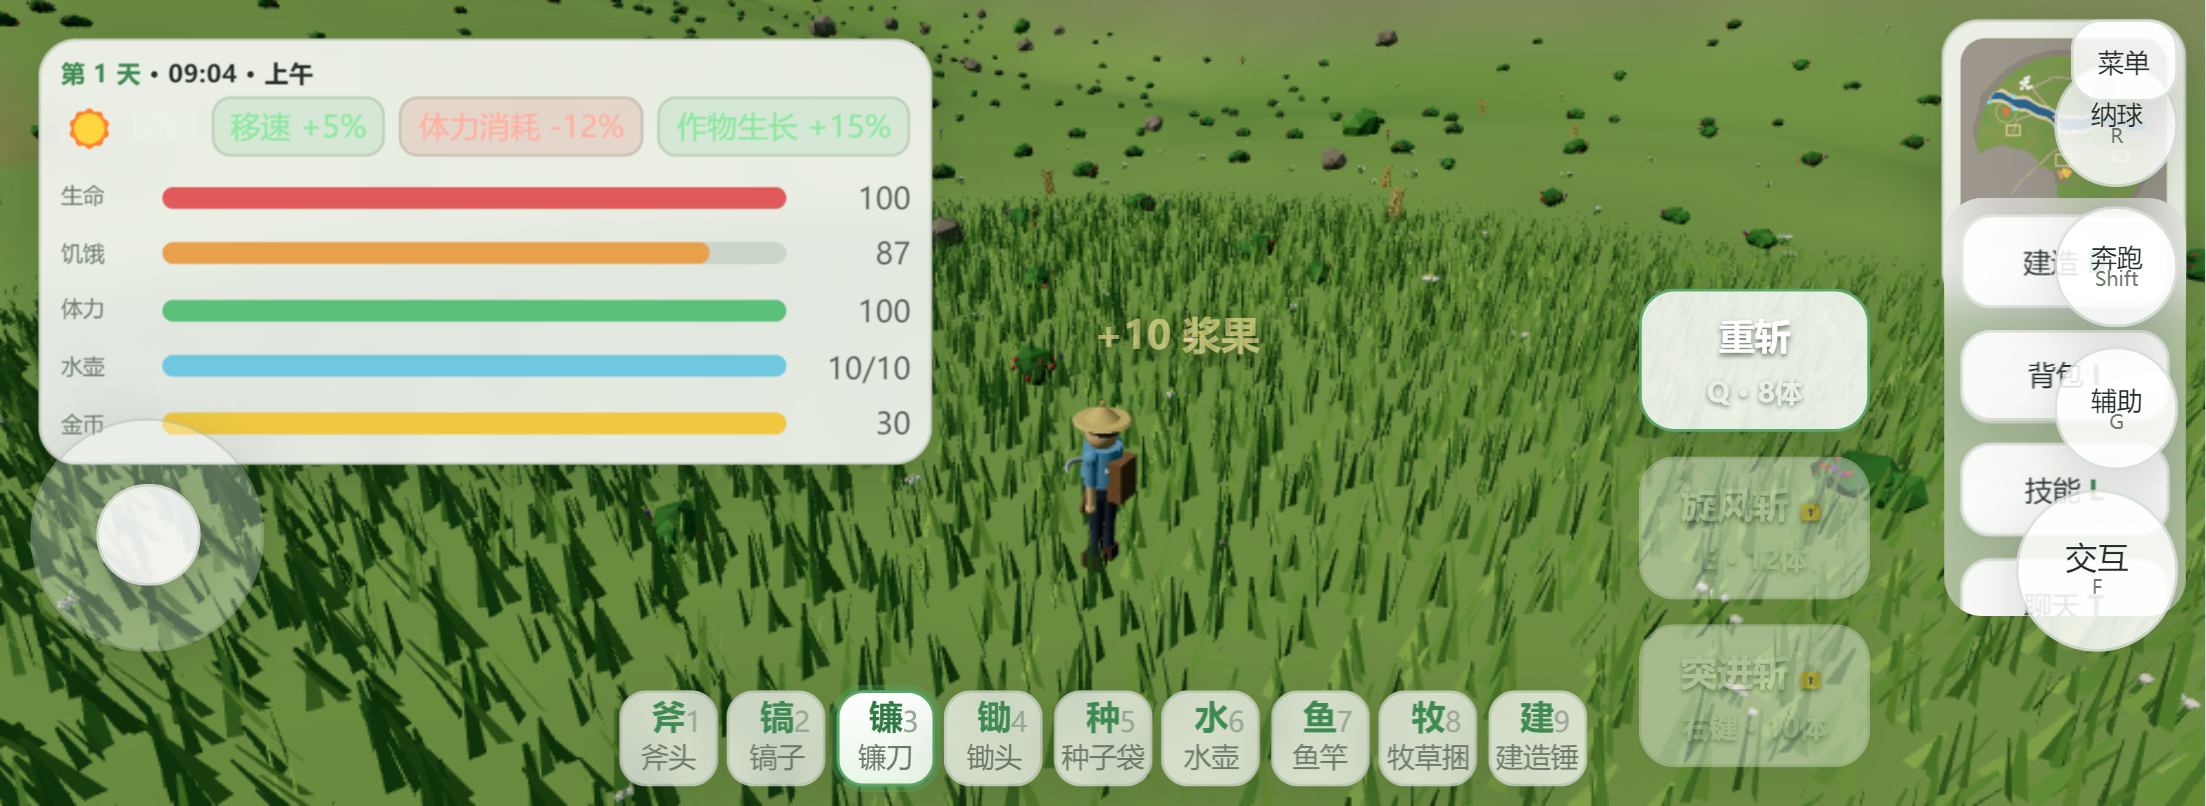
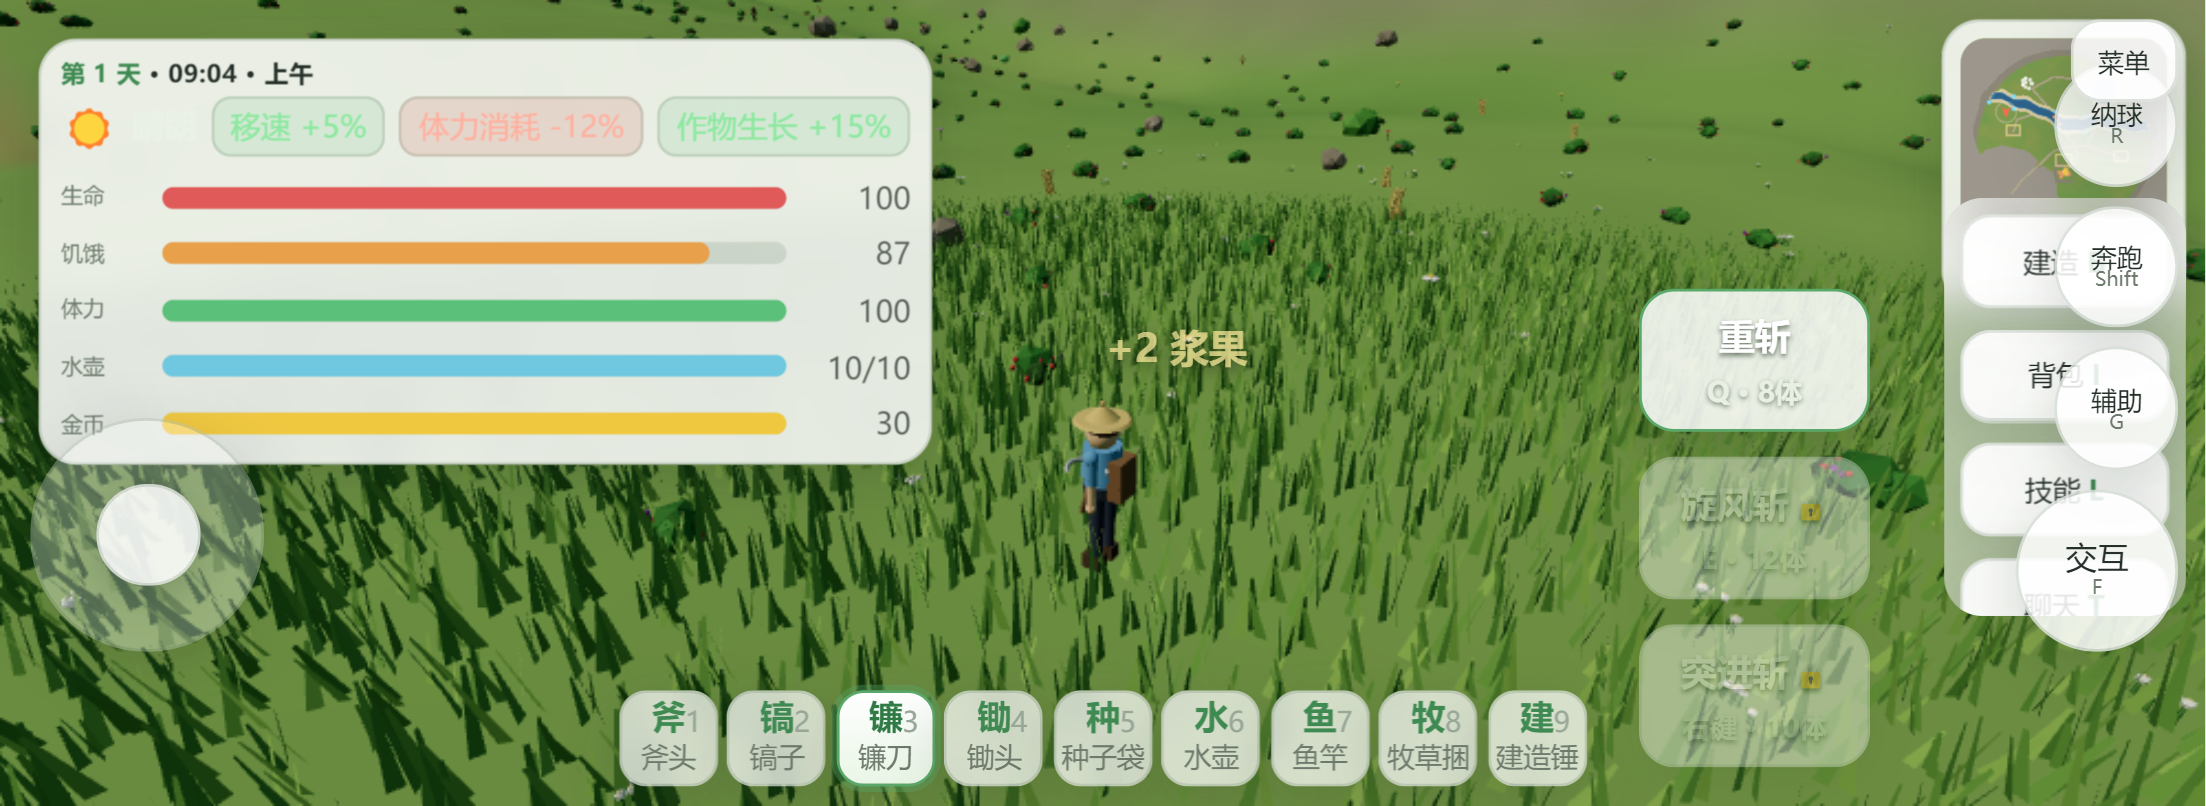
???? Open Farm:?? + ?? APK(????)

diff --git a/farm3d/_e2e.js b/farm3d/_e2e.js
@@ -1860,6 +1860,23 @@ fs.writeFileSync(TMP_PIC, Buffer.from(
   ok('刷新页面后读档恢复（含坐骑）', loaded.builds === saved.builds.length && loaded.tilled >= 1 && loaded.mounts >= 1);
   console.log('   读档状态 =', JSON.stringify(loaded));
 
+  /* 7. 鼠标指针：进入世界自动隐藏，按 Esc 取回（UI 悬停仍显示箭头） */
+  const cur1 = await page.evaluate(() => ({
+    cv: getComputedStyle(document.getElementById('cv')).cursor,
+    cls: document.documentElement.classList.contains('cur-none'),
+  }));
+  await page.keyboard.press('Escape');
+  await page.waitForTimeout(250);
+  const cur2 = await page.evaluate(() => ({
+    cv: getComputedStyle(document.getElementById('cv')).cursor,
+    cls: document.documentElement.classList.contains('cur-none'),
+    panel: (document.querySelector('#panel .phead h3') || {}).textContent || '',
+  }));
+  console.log('   指针 =', JSON.stringify({ before: cur1, afterEsc: cur2 }));
+  ok('进入游戏画布自动隐藏鼠标指针 · 按 Esc 显回',
+    cur1.cv === 'none' && cur1.cls && cur2.cv !== 'none' && !cur2.cls);
+  await page.evaluate(() => window.FARM.UI.closePanel());
+
   console.log(errs.length ? '\n运行时错误:\n' + errs.slice(0, 5).join('\n') : '\n无 JS 错误');
   await browser.close();
   process.exit(fails ? 1 : 0);

diff --git a/farm3d/_e2e_mobile.js b/farm3d/_e2e_mobile.js
@@ -157,14 +157,17 @@ const ASSETS = path.join(__dirname, '..', 'farm3d-android', 'app', 'src', 'main'
 
   /* 6. UI 全机型自适应：小屏收缩、平板放大，摇杆直径跟 --ms 走，测完还原视口 */
   const BASE = { width: 802, height: 293 };
+  /* 软渲染下帧率极低，改用「等条件成立」而不是等固定毫秒 */
   await page.setViewportSize({ width: 640, height: 320 });
-  await page.waitForTimeout(350);
+  await page.waitForFunction(() => parseFloat(getComputedStyle(document.documentElement).getPropertyValue('--ms')) < 1,
+    { timeout: 15000 }).catch(() => { });
   const small = await page.evaluate(() => ({
     ms: parseFloat(getComputedStyle(document.documentElement).getPropertyValue('--ms')),
     joy: document.getElementById('mjoy').clientWidth,
   }));
   await page.setViewportSize({ width: 1280, height: 800 });
-  await page.waitForTimeout(350);
+  await page.waitForFunction(() => parseFloat(getComputedStyle(document.documentElement).getPropertyValue('--ms')) > 1,
+    { timeout: 15000 }).catch(() => { });
   const big = await page.evaluate(() => ({
     ms: parseFloat(getComputedStyle(document.documentElement).getPropertyValue('--ms')),
     joy: document.getElementById('mjoy').clientWidth,

diff --git a/farm3d/js/ui.js b/farm3d/js/ui.js
@@ -109,6 +109,7 @@
       else if (k === F.bind('alt')) F.Inter.pressG();
       else if (k === F.bind('map')) U.togglePanel('map');
       else if (k === 'escape') {
+        U.setCursor(false);                                  /* Esc 第一件事：把指针还给玩家 */
         if (F.Inter.build || F.Inter.removeMode || F.Inter.moveMode) F.Inter.exitAll();
         else if (curPanel) U.closePanel();
         else U.openPanel('settings');
@@ -436,6 +437,9 @@
   }
   U.closePanel = function () { pDrag = null; elPanel.style.display = 'none'; elPanel.innerHTML = ''; curPanel = null; };
   U.togglePanel = function (n) { if (curPanel === n) U.closePanel(); else U.openPanel(n); };
+  /* 指针显隐：藏起来只用 CSS 把画布上的 cursor 置 none，
+     UI 元素自带的 cursor:pointer 不会被波及 —— 移上去自然显回箭头 */
+  U.setCursor = function (hidden) { document.documentElement.classList.toggle('cur-none', !!hidden); };
   U.panelShell = panelShell;
   U.setPanel = function (n) { curPanel = n; };
   U.getPanel = function () { return curPanel; };

diff --git a/farm3d/index.html b/farm3d/index.html
@@ -21,6 +21,9 @@ body{
   color:var(--ink); user-select:none; -webkit-user-select:none;
 }
 #cv{position:absolute;inset:0;display:block;width:100%;height:100%}
+/* 进入世界后自动藏起鼠标指针（Esc 取回）；只作用在画布上 ——
+   按钮 / 面板本身是 cursor:pointer，鼠标移过去会自然显回箭头 */
+html.cur-none #cv{cursor:none}
 /* 安全区：刘海屏 / 灵动岛 / Home 条 / 挖孔屏 —— absolute 子元素随 padding 整体内缩 */
 #ui,#panel{padding:env(safe-area-inset-top) env(safe-area-inset-right) env(safe-area-inset-bottom) env(safe-area-inset-left)}
 #ui{position:absolute;inset:0;pointer-events:none;z-index:5}

diff --git a/farm3d/js/player.js b/farm3d/js/player.js
@@ -35,6 +35,8 @@
         Input.mx = e.clientX; Input.my = e.clientY;
         Input.clickX = e.clientX; Input.clickY = e.clientY;
         Input.dragging = true;
+        /* 在画布上开始操作 = 回到游戏中，指针重新藏起来 */
+        if (F.UI && F.UI.setCursor) F.UI.setCursor(true);
         if (e.button === 2) Input.rmb = true;                    /* 技能槽 3 */
       });
       addEventListener('mousemove', e => {

diff --git a/farm3d/js/main.js b/farm3d/js/main.js
@@ -486,6 +486,8 @@
     const bar = F.$('#lbar i'), tip = F.$('#ltip');
     if (taskI >= TASKS.length) {
       F.$('#loading').style.display = 'none';
+      /* 进入世界：藏起鼠标指针，Esc 取回（只在画布上生效，UI 悬停照旧显示箭头） */
+      if (F.UI && F.UI.setCursor) F.UI.setCursor(true);
       start();
       return;
     }
